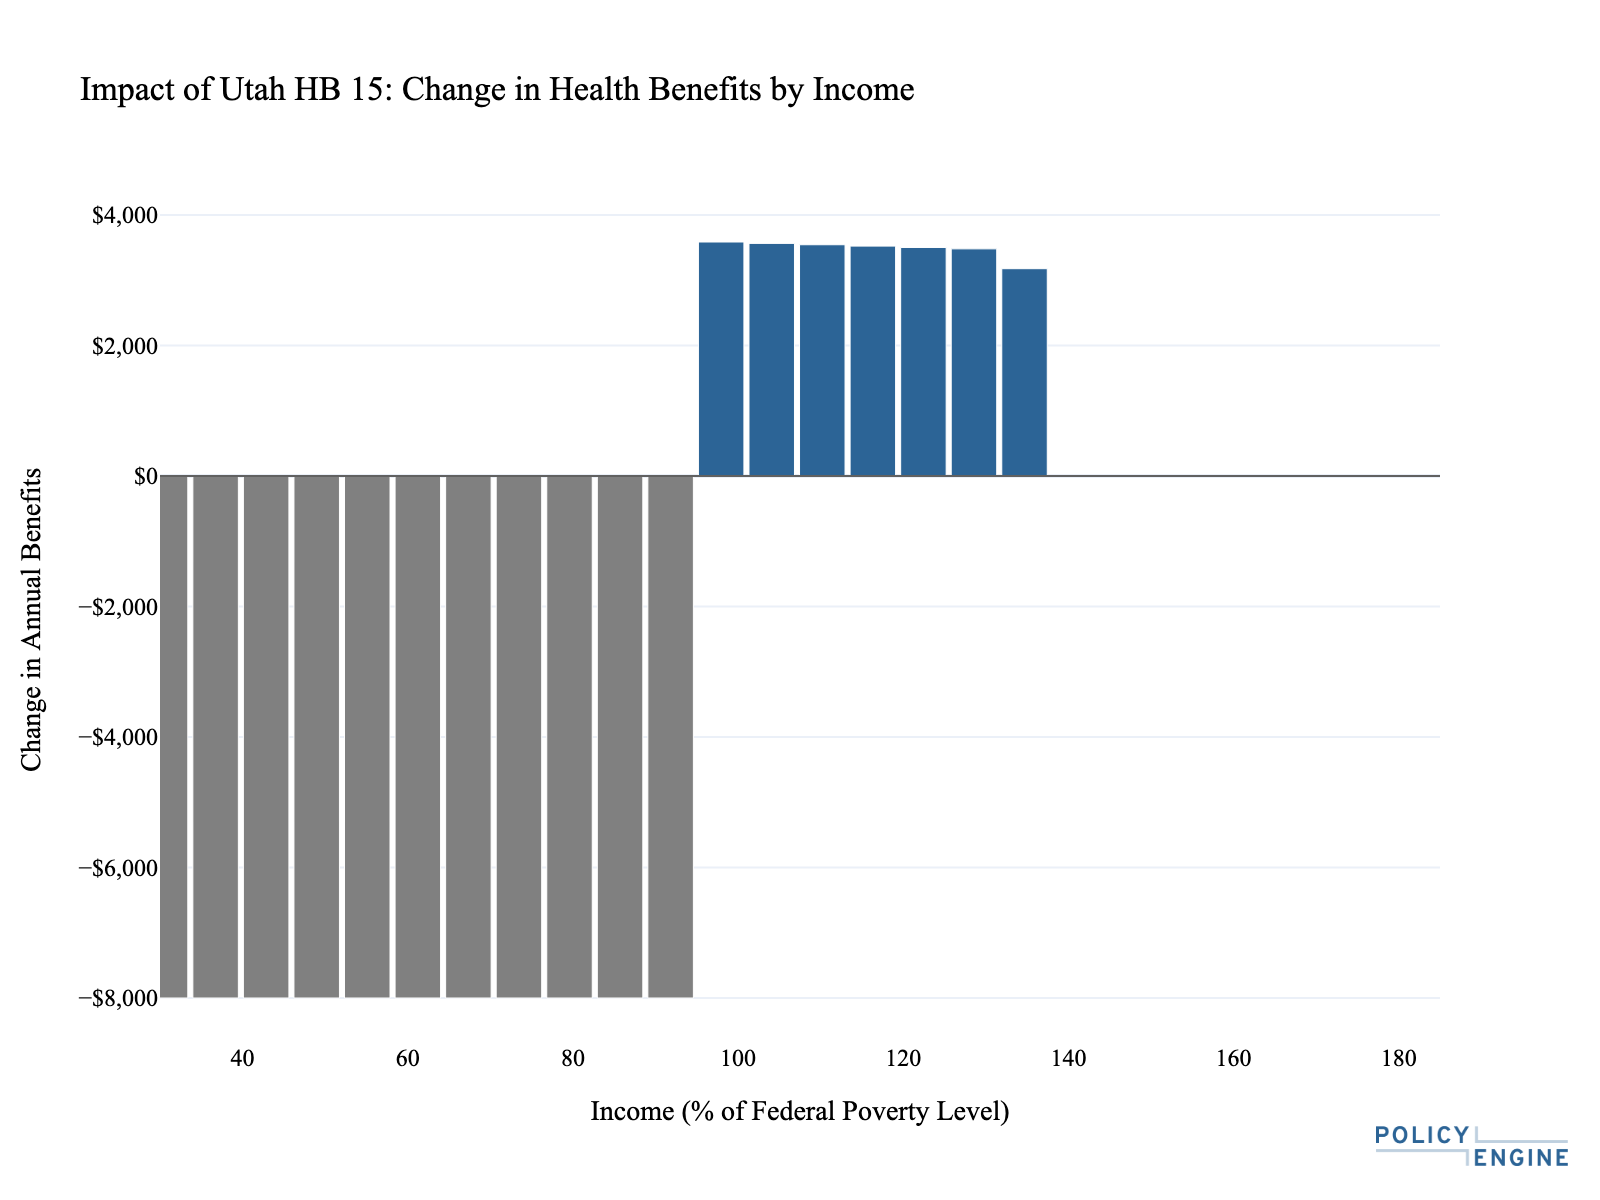
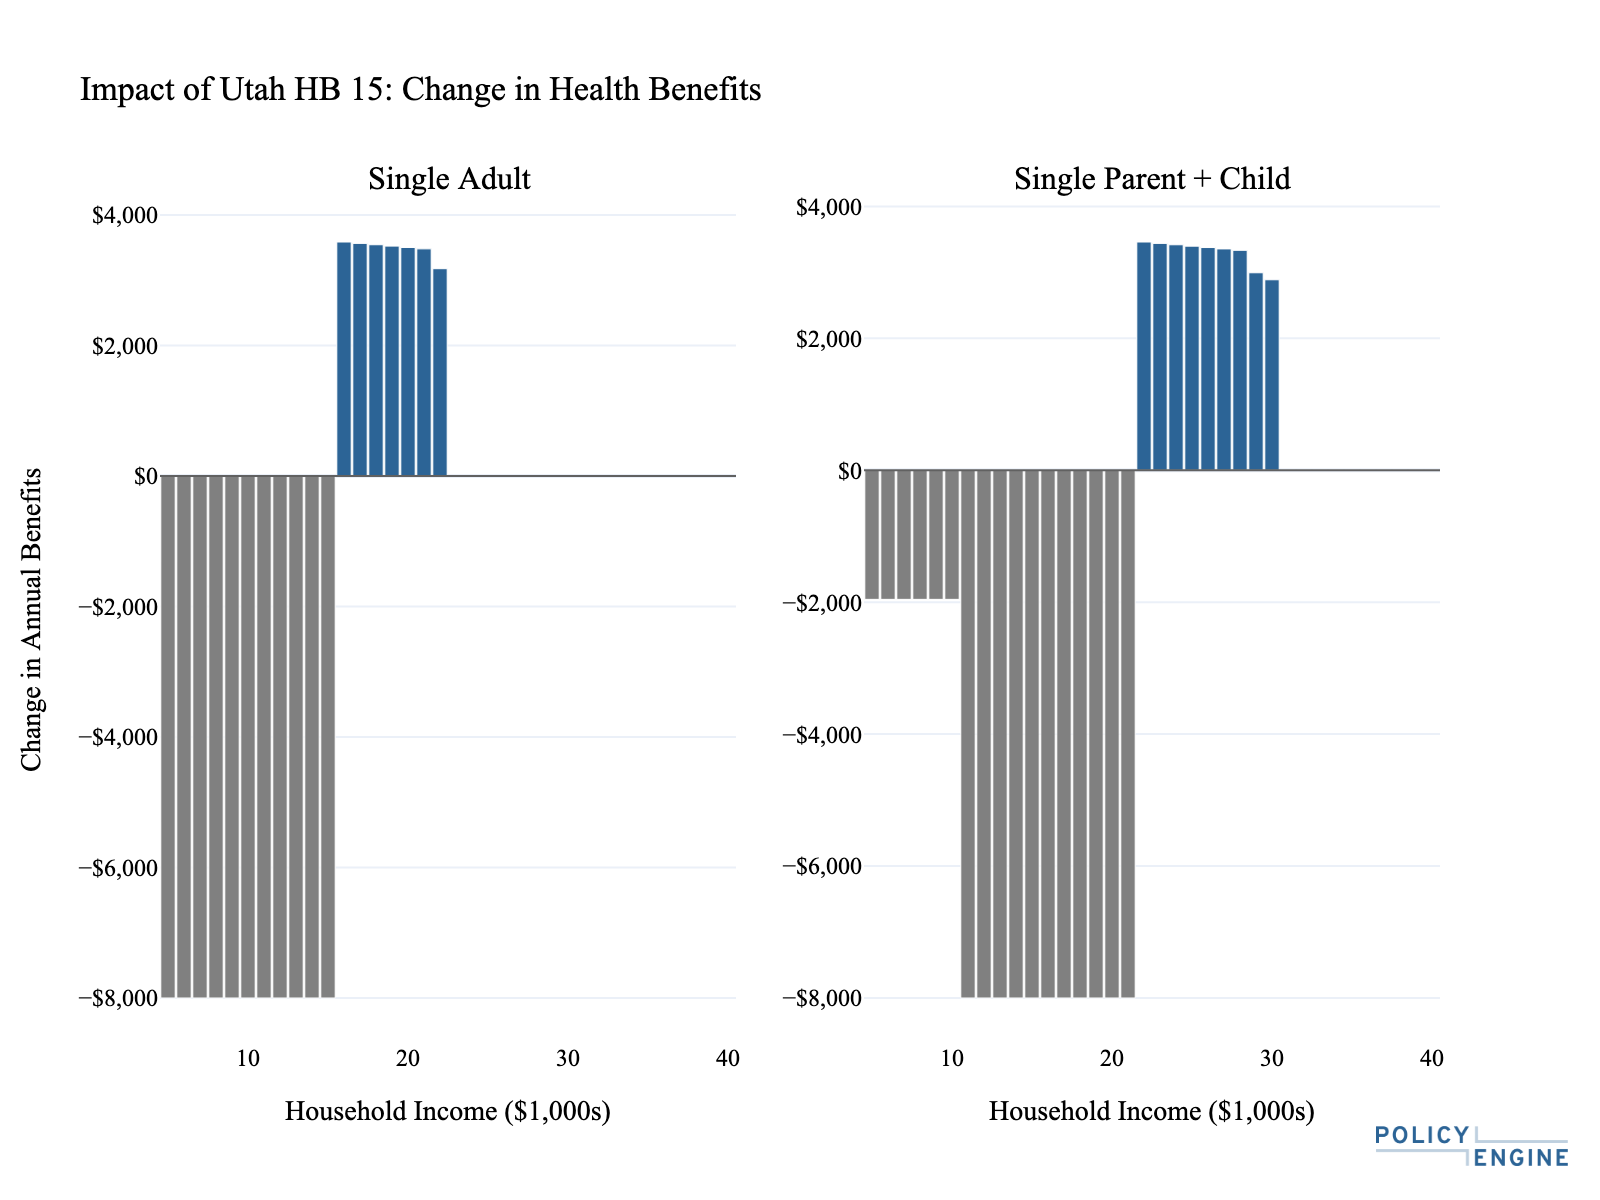
Update chart script to use axes feature for proper data generation

diff --git a/us/states/ut/generate_hb15_charts.py b/us/states/ut/generate_hb15_charts.py
@@ -1,6 +1,5 @@
-"""Generate charts for Utah HB 15 blog post."""
+"""Generate charts for Utah HB 15 blog post using axes feature."""
 
-import numpy as np
 import plotly.graph_objects as go
 from policyengine_us import Simulation
 from policyengine_core.periods import instant
@@ -31,66 +30,77 @@ def create_ut_medicaid_expansion_repeal():
 
 
 def main():
-    print('Generating data...')
-    incomes = np.arange(5000, 40001, 2000)
+    # Single adult situation with axes
+    single_situation = {
+        'people': {
+            'adult': {
+                'age': {YEAR: 35},
+                'monthly_hours_worked': {YEAR: 100},
+            }
+        },
+        'tax_units': {'tax_unit': {'members': ['adult']}},
+        'spm_units': {'spm_unit': {'members': ['adult']}},
+        'households': {'household': {'members': ['adult'], 'state_code': {YEAR: 'UT'}}},
+        'families': {'family': {'members': ['adult']}},
+        'marital_units': {'marital_unit': {'members': ['adult']}},
+        'axes': [[{'name': 'employment_income', 'count': 500, 'min': 0, 'max': 50000}]],
+    }
 
-    single_baseline_medicaid, single_baseline_ptc = [], []
-    single_reform_medicaid, single_reform_ptc = [], []
-    parent_baseline_medicaid, parent_baseline_ptc = [], []
-    parent_reform_medicaid, parent_reform_ptc = [], []
+    # Parent + child situation with axes
+    parent_situation = {
+        'people': {
+            'parent': {
+                'age': {YEAR: 30},
+                'monthly_hours_worked': {YEAR: 100},
+            },
+            'child': {'age': {YEAR: 8}},
+        },
+        'tax_units': {'tax_unit': {'members': ['parent', 'child']}},
+        'spm_units': {'spm_unit': {'members': ['parent', 'child']}},
+        'households': {'household': {'members': ['parent', 'child'], 'state_code': {YEAR: 'UT'}}},
+        'families': {'family': {'members': ['parent', 'child']}},
+        'marital_units': {'marital_unit': {'members': ['parent']}},
+        'axes': [[{'name': 'employment_income', 'count': 500, 'min': 0, 'max': 50000}]],
+    }
 
-    for i, income in enumerate(incomes):
-        print(f'  Processing income ${income:,} ({i+1}/{len(incomes)})')
+    print('Creating simulations...')
+    single_base = Simulation(situation=single_situation)
+    single_reform = Simulation(situation=single_situation, reform=create_ut_medicaid_expansion_repeal())
+    parent_base = Simulation(situation=parent_situation)
+    parent_reform = Simulation(situation=parent_situation, reform=create_ut_medicaid_expansion_repeal())
 
-        # Single adult
-        single_situation = {
-            'people': {'adult': {'age': {YEAR: 35}, 'employment_income': {YEAR: int(income)}, 'monthly_hours_worked': {YEAR: 100}}},
-            'tax_units': {'tax_unit': {'members': ['adult']}},
-            'spm_units': {'spm_unit': {'members': ['adult']}},
-            'households': {'household': {'members': ['adult'], 'state_code': {YEAR: 'UT'}}},
-            'families': {'family': {'members': ['adult']}},
-            'marital_units': {'marital_unit': {'members': ['adult']}},
-        }
-        base = Simulation(situation=single_situation)
-        ref = Simulation(situation=single_situation, reform=create_ut_medicaid_expansion_repeal())
-        single_baseline_medicaid.append(base.calculate('medicaid', YEAR, map_to='person')[0])
-        single_baseline_ptc.append(base.calculate('premium_tax_credit', YEAR)[0])
-        single_reform_medicaid.append(ref.calculate('medicaid', YEAR, map_to='person')[0])
-        single_reform_ptc.append(ref.calculate('premium_tax_credit', YEAR)[0])
+    print('Calculating single adult data...')
+    single_income = single_base.calculate('employment_income', YEAR)
+    single_baseline_medicaid = single_base.calculate('medicaid', YEAR, map_to='person')
+    single_baseline_ptc = single_base.calculate('premium_tax_credit', YEAR, map_to='person')
+    single_reform_medicaid = single_reform.calculate('medicaid', YEAR, map_to='person')
+    single_reform_ptc = single_reform.calculate('premium_tax_credit', YEAR, map_to='person')
 
-        # Parent + child
-        parent_situation = {
-            'people': {'parent': {'age': {YEAR: 30}, 'employment_income': {YEAR: int(income)}, 'monthly_hours_worked': {YEAR: 100}}, 'child': {'age': {YEAR: 8}}},
-            'tax_units': {'tax_unit': {'members': ['parent', 'child']}},
-            'spm_units': {'spm_unit': {'members': ['parent', 'child']}},
-            'households': {'household': {'members': ['parent', 'child'], 'state_code': {YEAR: 'UT'}}},
-            'families': {'family': {'members': ['parent', 'child']}},
-            'marital_units': {'marital_unit': {'members': ['parent']}},
-        }
-        base = Simulation(situation=parent_situation)
-        ref = Simulation(situation=parent_situation, reform=create_ut_medicaid_expansion_repeal())
-        parent_baseline_medicaid.append(base.calculate('medicaid', YEAR, map_to='person')[0])
-        parent_baseline_ptc.append(base.calculate('premium_tax_credit', YEAR)[0])
-        parent_reform_medicaid.append(ref.calculate('medicaid', YEAR, map_to='person')[0])
-        parent_reform_ptc.append(ref.calculate('premium_tax_credit', YEAR)[0])
-
-    incomes_arr = np.array(incomes)
+    print('Calculating parent+child data...')
+    parent_income = parent_base.calculate('employment_income', YEAR)
+    # Get only the parent's medicaid (index 0), not the child's
+    parent_baseline_medicaid = parent_base.calculate('medicaid', YEAR, map_to='person')[::2]  # Every other (parent only)
+    parent_baseline_ptc = parent_base.calculate('premium_tax_credit', YEAR, map_to='person')[::2]
+    parent_reform_medicaid = parent_reform.calculate('medicaid', YEAR, map_to='person')[::2]
+    parent_reform_ptc = parent_reform.calculate('premium_tax_credit', YEAR, map_to='person')[::2]
+    parent_income = parent_income[::2]  # Match the income array
 
     # Single Adult Chart
     print('Creating single adult chart...')
     fig = go.Figure()
-    fig.add_trace(go.Scatter(x=incomes_arr/1000, y=single_baseline_medicaid, mode='lines', name='Medicaid (Baseline)', line=dict(color=TEAL_ACCENT, width=2)))
-    fig.add_trace(go.Scatter(x=incomes_arr/1000, y=single_baseline_ptc, mode='lines', name='ACA PTC (Baseline)', line=dict(color=BLUE_PRIMARY, width=2)))
-    fig.add_trace(go.Scatter(x=incomes_arr/1000, y=single_reform_medicaid, mode='lines', name='Medicaid (Reform)', line=dict(color=TEAL_ACCENT, width=2, dash='dot')))
-    fig.add_trace(go.Scatter(x=incomes_arr/1000, y=single_reform_ptc, mode='lines', name='ACA PTC (Reform)', line=dict(color=BLUE_PRIMARY, width=2, dash='dot')))
+    fig.add_trace(go.Scatter(x=single_income, y=single_baseline_medicaid, mode='lines', name='Medicaid (Baseline)', line=dict(color=TEAL_ACCENT, width=2)))
+    fig.add_trace(go.Scatter(x=single_income, y=single_baseline_ptc, mode='lines', name='ACA PTC (Baseline)', line=dict(color=BLUE_PRIMARY, width=2)))
+    fig.add_trace(go.Scatter(x=single_income, y=single_reform_medicaid, mode='lines', name='Medicaid (Reform)', line=dict(color=TEAL_ACCENT, width=2, dash='dot')))
+    fig.add_trace(go.Scatter(x=single_income, y=single_reform_ptc, mode='lines', name='ACA PTC (Reform)', line=dict(color=BLUE_PRIMARY, width=2, dash='dot')))
     fig.update_layout(
         title='Single Adult: Health Benefits by Income',
-        xaxis_title='Household Income ($1,000s)',
-        yaxis_title='Annual Benefit',
+        xaxis_title='Household Income',
+        yaxis_title='Benefit Amount',
+        xaxis=dict(tickformat='$,.0f', range=[0, 50000]),
         yaxis=dict(tickformat='$,.0f'),
-        height=500,
-        width=800,
-        legend=dict(orientation='h', yanchor='bottom', y=-0.25, xanchor='center', x=0.5),
+        height=600,
+        width=1000,
+        legend=dict(orientation='h', yanchor='bottom', y=-0.2, xanchor='center', x=0.5),
     )
     fig = format_fig(fig)
     fig.write_image('hb15_single_adult.png', scale=2)
@@ -99,18 +109,19 @@ def main():
     # Parent + Child Chart
     print('Creating parent+child chart...')
     fig = go.Figure()
-    fig.add_trace(go.Scatter(x=incomes_arr/1000, y=parent_baseline_medicaid, mode='lines', name='Medicaid (Baseline)', line=dict(color=TEAL_ACCENT, width=2)))
-    fig.add_trace(go.Scatter(x=incomes_arr/1000, y=parent_baseline_ptc, mode='lines', name='ACA PTC (Baseline)', line=dict(color=BLUE_PRIMARY, width=2)))
-    fig.add_trace(go.Scatter(x=incomes_arr/1000, y=parent_reform_medicaid, mode='lines', name='Medicaid (Reform)', line=dict(color=TEAL_ACCENT, width=2, dash='dot')))
-    fig.add_trace(go.Scatter(x=incomes_arr/1000, y=parent_reform_ptc, mode='lines', name='ACA PTC (Reform)', line=dict(color=BLUE_PRIMARY, width=2, dash='dot')))
+    fig.add_trace(go.Scatter(x=parent_income, y=parent_baseline_medicaid, mode='lines', name='Medicaid (Baseline)', line=dict(color=TEAL_ACCENT, width=2)))
+    fig.add_trace(go.Scatter(x=parent_income, y=parent_baseline_ptc, mode='lines', name='ACA PTC (Baseline)', line=dict(color=BLUE_PRIMARY, width=2)))
+    fig.add_trace(go.Scatter(x=parent_income, y=parent_reform_medicaid, mode='lines', name='Medicaid (Reform)', line=dict(color=TEAL_ACCENT, width=2, dash='dot')))
+    fig.add_trace(go.Scatter(x=parent_income, y=parent_reform_ptc, mode='lines', name='ACA PTC (Reform)', line=dict(color=BLUE_PRIMARY, width=2, dash='dot')))
     fig.update_layout(
         title='Single Parent + Child: Health Benefits by Income',
-        xaxis_title='Household Income ($1,000s)',
-        yaxis_title='Annual Benefit',
+        xaxis_title='Household Income',
+        yaxis_title='Benefit Amount',
+        xaxis=dict(tickformat='$,.0f', range=[0, 50000]),
         yaxis=dict(tickformat='$,.0f'),
-        height=500,
-        width=800,
-        legend=dict(orientation='h', yanchor='bottom', y=-0.25, xanchor='center', x=0.5),
+        height=600,
+        width=1000,
+        legend=dict(orientation='h', yanchor='bottom', y=-0.2, xanchor='center', x=0.5),
     )
     fig = format_fig(fig)
     fig.write_image('hb15_parent_child.png', scale=2)
